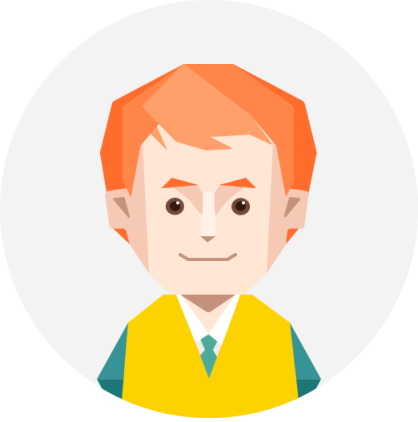
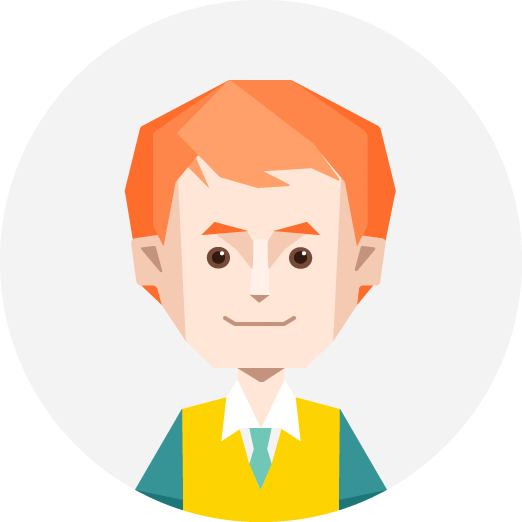
Actualizada posicion de figuras en servicios, actualizada funcion de cambio de imagen en miembros, actualizadas y comprimidas imagenes de caratula de proyecto, incluido nuevo proyecto nalla, fix tamaño de header en resoluciones tablet

diff --git a/src/constants/Projects.js b/src/constants/Projects.js
@@ -1,21 +1,27 @@
 // Grupo Pravisani
-import CoverGrupopravisani from 'assets/images/projects/grupopravisani/cover.png'
+import CoverGrupopravisani from 'assets/images/projects/grupopravisani/cover.jpg'
 import GrupoElement1 from 'assets/images/projects/grupopravisani/element-1.png'
 import GrupoElement2 from 'assets/images/projects/grupopravisani/element-2.png'
 
 // Busco Esto
-import CoverBuscoEsto from 'assets/images/projects/buscoesto/cover.png'
+import CoverBuscoEsto from 'assets/images/projects/buscoesto/cover.jpg'
 import BuscoElement1 from 'assets/images/projects/buscoesto/element-1.png'
 import BuscoElement2 from 'assets/images/projects/buscoesto/element-2.png'
 
 // Acics
-import CoverAsics from 'assets/images/projects/asics/cover.png'
+import CoverAsics from 'assets/images/projects/asics/cover.jpg'
 import AsicsElement1 from 'assets/images/projects/asics/element-1.png'
 
 // Cask Games
-import CoverCaskGames from 'assets/images/projects/caskGames/cover.png'
+import CoverCaskGames from 'assets/images/projects/caskGames/cover.jpg'
 import CaskElement1 from 'assets/images/projects/caskGames/element-1.png'
 import CaskElement2 from 'assets/images/projects/caskGames/element-2.png'
+
+// Nalla
+import CoverNalla from 'assets/images/projects/nalla/cover.jpg'
+import NallaElement1 from 'assets/images/projects/nalla/element-1.jpg'
+import NallaElement2 from 'assets/images/projects/nalla/element-2.jpg'
+import NallaElement3 from 'assets/images/projects/nalla/element-3.jpg'
 
 export default [
   {
@@ -23,7 +29,6 @@ export default [
     slug: 'grupo-pravisani',
     type: 'Website',
     cover: CoverGrupopravisani,
-    color: '#EEF2F4',
     website: 'https://www.grupopravisani.com',
     elements: [
       {
@@ -39,7 +44,6 @@ export default [
     slug: 'busco-esto',
     type: 'Ecommerce Website',
     cover: CoverBuscoEsto,
-    color: '#E0ECFE',
     website: 'https://buscoesto.com/',
     elements: [
       {
@@ -58,7 +62,6 @@ export default [
     slug: 'asics-ohzi',
     type: 'Backend & API',
     cover: CoverAsics,
-    color: '#F0F0F8',
     website: null,
     elements: [
       {
@@ -77,7 +80,6 @@ export default [
     slug: 'cask-games',
     type: 'Website / Frontend',
     cover: CoverCaskGames,
-    color: '#E5F3FE',
     website: 'https://caskgames.com/',
     elements: [
       {
@@ -88,6 +90,29 @@ export default [
       {
         image: CaskElement2,
         description: '',
+      },
+    ],
+  },
+  {
+    name: 'Nalla',
+    slug: 'nalla',
+    type: 'Mobile App & Machine Learning',
+    cover: CoverNalla,
+    elements: [
+      {
+        image: NallaElement1,
+        description:
+          '1) Nalla is a mobile app targeted for South Korea. With Nalla you are able to reserve bikes in a smart way.  Our client asked to make major changes in the mobile app and deploy it in both stores, AppStore and Play Store.',
+      },
+      {
+        image: NallaElement2,
+        description:
+          '2) One of the biggest changes we made was in their Dashboard application built in ReactJS and Django. We created a complete region search and filtering so the client can target bikes stations accordingly. We also included a statistics module, so the client can check the status of the App.',
+      },
+      {
+        image: NallaElement3,
+        description:
+          '3) We built from scratch a Machine Learning prediction using Tensorflow. The prediction module informs to the user how many bikes slots will be available in the following minutes / hours.',
       },
     ],
   },

diff --git a/src/components/OurTeam/Member.js b/src/components/OurTeam/Member.js
@@ -1,30 +1,32 @@
-import React, { useRef } from 'react'
+import React, { useCallback, useState } from 'react'
 import PropTypes from 'prop-types'
 
 function Member({ name, picture, hover, position }) {
-  const imgRef = useRef(null)
+  const [image, setImage] = useState(picture)
 
-  const hoverPicture = () => {
-    imgRef.current.src = hover
-    return imgRef
-  }
+  const hoverPicture = useCallback(
+    () => setImage(hover),
+    [hover],
+  )
 
-  const originalPicture = () => {
-    imgRef.current.src = picture
-    return imgRef
-  }
+  const originalPicture = useCallback(
+    () => setImage(picture),
+    [picture],
+  )
 
   return (
-    <div className="member">
+    <div
+      className="member"
+      onFocus={hoverPicture}
+      onHover={hoverPicture}
+      onBlur={originalPicture}
+      onMouseOver={hoverPicture}
+      onMouseOut={originalPicture}
+    >
       <div className="member__shadow" />
       <img
         className="member__picture"
-        ref={imgRef}
-        src={picture}
-        onFocus={hoverPicture}
-        onBlur={originalPicture}
-        onMouseOver={hoverPicture}
-        onMouseOut={originalPicture}
+        src={image}
         alt="Member ilustration"
       />
       <span className="member__position">{position}</span>

diff --git a/src/stylesheets/components/_member.scss b/src/stylesheets/components/_member.scss
@@ -22,16 +22,17 @@
     }
 }
 
+// 522x522
 .member__picture {
     margin-bottom: 0.5rem;
     width: 150px;
     height: 150px;
     background: $gray-f8;
-    border-radius: $border-radius-cirlce;
+    // border-radius: $border-radius-cirlce;
 
     @media(min-width: $screen-lg) {
-        width: 209px;
-        height: 209px;
+        min-width: 209px;
+        min-height: 209px;
     }
 }
 

diff --git a/src/stylesheets/components/_pill.scss b/src/stylesheets/components/_pill.scss
@@ -10,10 +10,6 @@
     box-shadow: inset 2px 2px 8px -1px rgba($black, 0.1);
     box-sizing: border-box;
     position: relative;
-
-    @media(min-width: $screen-md) {
-        padding: 2rem 1rem 4rem;
-    }
 }
 
 .pill__icon {

diff --git a/src/stylesheets/components/_header.scss b/src/stylesheets/components/_header.scss
@@ -9,6 +9,7 @@
     height: $header-height;
     background-color: $white;
     border-bottom: 1px solid $gray-da;
+    box-sizing: border-box;
 
     @media(min-width: $screen-md) {
         height: $header-height-md;

diff --git a/src/stylesheets/components/_project-card.scss b/src/stylesheets/components/_project-card.scss
@@ -22,11 +22,7 @@
 }
 
 .project-card__image {
-    width: 200px;
-
-    @media(min-width: $screen-lg) {
-        width: 297px;
-    }
+    width: 100%;
 }
 
 .project-card__name {
